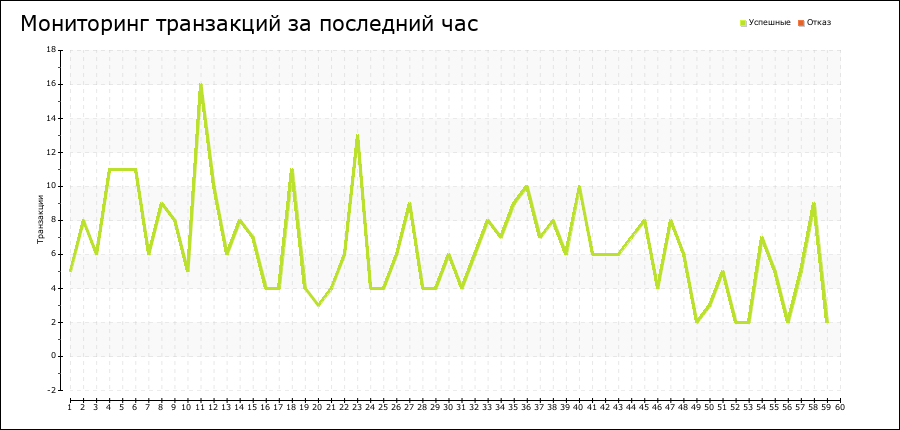
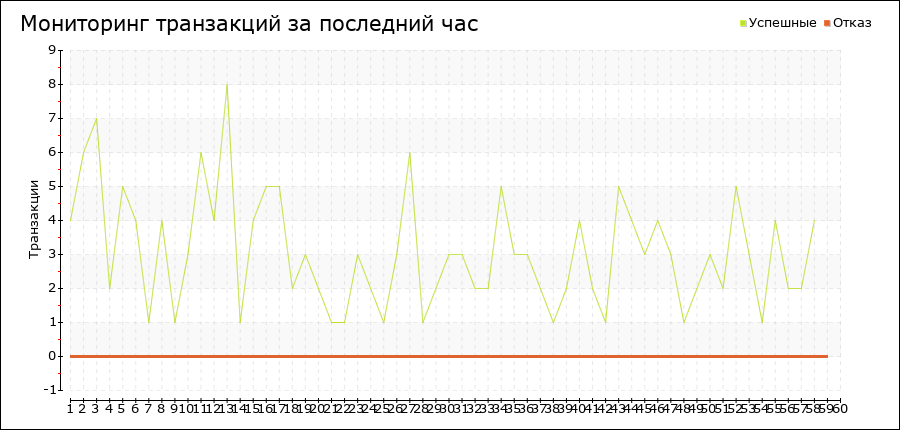
16.01.2018

diff --git a/tr_in_minute.php b/tr_in_minute.php
@@ -1,0 +1,74 @@
+<?php
+// Standard inclusions     
+//include("Pchart/class/pData.class.php");
+//include("Pchart/class/pDraw.class.php");
+//include("Pchart/class/pPie.class.php");
+//include("Pchart/class/pImage.class.php");
+
+
+include ('inc/data_tr_in_minute.php');
+  
+/* Create and populate the pData object */
+ $MyData = new pData();   
+ $MyData->addPoints(array(count($arraypaidtimem), count($arraycanceltimem)),"ScoreA");  
+ $MyData->setSerieDescription("ScoreA","Application A");
+ 
+
+ /* Define the absissa serie */
+ $MyData->addPoints(array("Успешные","Отказ"),"Labels");
+ $MyData->setAbscissa("Labels");
+
+ /* Create the pChart object */
+ $myPicture = new pImage(900,430,$MyData);
+
+ /* Draw a solid background */
+ //$Settings = array("R"=>173, "G"=>152, "B"=>217, "Dash"=>1, "DashR"=>193, "DashG"=>172, "DashB"=>237);
+ //$myPicture->drawFilledRectangle(0,0,900,430,$Settings);
+
+ /* Draw a gradient overlay */
+ //$Settings = array("StartR"=>209, "StartG"=>150, "StartB"=>231, "EndR"=>111, "EndG"=>3, "EndB"=>138, "Alpha"=>50);
+ //$myPicture->drawGradientArea(0,0,900,430,DIRECTION_VERTICAL,$Settings);
+ //$myPicture->drawGradientArea(0,0,900,20,DIRECTION_VERTICAL,array("StartR"=>0,"StartG"=>0,"StartB"=>0,"EndR"=>50,"EndG"=>50,"EndB"=>50,"Alpha"=>100));
+
+ /* Add a border to the picture */
+ $myPicture->drawRectangle(0,0,899,429,array("R"=>0,"G"=>0,"B"=>0));
+
+ /* Write the picture title */ 
+ $myPicture->setFontProperties(array("FontName"=>"PChart/fonts/verdana.ttf","FontSize"=>16));
+ $myPicture->drawText(10,28,"Транзакции за минуту",array("R"=>0,"G"=>0,"B"=>0));
+
+ /* Set the default font properties */ 
+ $myPicture->setFontProperties(array("FontName"=>"PChart/fonts/verdana.ttf","FontSize"=>10,"R"=>0,"G"=>0,"B"=>0));
+
+ /* Enable shadow computing */ 
+ $myPicture->setShadow(TRUE,array("X"=>2,"Y"=>2,"R"=>0,"G"=>0,"B"=>0,"Alpha"=>50));
+
+ /* Create the pPie object */ 
+ $PieChart = new pPie($myPicture,$MyData);
+
+ /* Draw a simple pie chart */ 
+ //$PieChart->draw2DPie(185,205,array("WriteValues"=>PIE_VALUE_NATURAL, "SecondPass"=>FALSE, "Radius"=>170));
+ $PieChart->draw2DPie(185,205,array("WriteValues"=>PIE_VALUE_NATURAL,"DataGapAngle"=>10,"DataGapRadius"=>6,"Border"=>TRUE,"BorderR"=>255,"BorderG"=>255,"BorderB"=>255, "Radius"=>170, "LabelColor"=>PIE_LABEL_COLOR_MANUAL, "ValueR"=>0, "ValueG"=>0, "ValueB"=>0));
+ /* Draw an AA pie chart */ 
+ //$PieChart->draw2DPie(340,125,array("DrawLabels"=>TRUE,"LabelStacked"=>TRUE,"Border"=>TRUE));
+
+ /* Draw a splitted pie chart */ 
+ $PieChart->draw2DPie(625,205,array("WriteValues"=>PIE_VALUE_PERCENTAGE,"DataGapAngle"=>10,"DataGapRadius"=>2,"Border"=>TRUE,"BorderR"=>255,"BorderG"=>255,"BorderB"=>255, "Radius"=>170, "LabelColor"=>PIE_LABEL_COLOR_MANUAL, "ValueR"=>0, "ValueG"=>0, "ValueB"=>0));
+
+ /* Write the legend */
+ $myPicture->setFontProperties(array("FontName"=>"PChart/fonts/verdana.ttf","FontSize"=>10));
+ $myPicture->setShadow(TRUE,array("X"=>1,"Y"=>1,"R"=>0,"G"=>0,"B"=>0,"Alpha"=>20));
+ $myPicture->drawText(185,405,"Количество транзакций",array("DrawBox"=>TRUE,"BoxRounded"=>TRUE,"R"=>0,"G"=>0,"B"=>0,"Align"=>TEXT_ALIGN_TOPMIDDLE));
+ $myPicture->drawText(625,405,"Количество транзакций в процентах",array("DrawBox"=>TRUE,"BoxRounded"=>TRUE,"R"=>0,"G"=>0,"B"=>0,"Align"=>TEXT_ALIGN_TOPMIDDLE));
+
+ /* Write the legend box */ 
+ $myPicture->setFontProperties(array("FontName"=>"PChart/fonts/verdana.ttf","FontSize"=>10,"R"=>0,"G"=>0,"B"=>0));
+ $PieChart->drawPieLegend(740,20,array("Style"=>LEGEND_NOBORDER,"Mode"=>LEGEND_HORIZONTAL));
+  
+ $myPicture->Render("pic/tr_in_minute.png");
+/* 
+ * To change this license header, choose License Headers in Project Properties.
+ * To change this template file, choose Tools | Templates
+ * and open the template in the editor.
+ */
+

diff --git a/inc/data_tr_per_hour.php b/inc/data_tr_per_hour.php
@@ -12,36 +12,61 @@ if (!$db) {
 $et = time();
 $st = time() - 3600;
 
-$sql = "SELECT * FROM transactions WHERE status = 'paid' AND time_add > '$st'";
+$sql = "SELECT * FROM transactions WHERE time_add > '$st'";
 $result = mysqli_query($db,$sql);
 while ($row = mysqli_fetch_assoc($result)){
-    
+    $arraystatus[] = $row['status'];
     $arraypaidtime[] = $row['time_add'];
 }
 
-$sql = "SELECT * FROM transactions WHERE status = 'cansel' AND time_add > '$st'";
+/*$sql = "SELECT * FROM transactions WHERE status = 'cancel' AND time_add > '$st'";
 $result = mysqli_query($db,$sql);
 while ($row = mysqli_fetch_assoc($result)){
     
-    if (!$row['time_add']){
-        $arraycanceltime[] = 0;
-    } else {
-        $arraycanceltime[] = $row['time_add'];
-    }
+    $arraycanceltime[] = $row['time_add'];
+    
+}*/
+for ($x=0; $x<59; $x++){
+$massivcancel[$x] = 0;
 }
 
 for ($i=0; $i<count($arraypaidtime); $i++){
+    $temp = (int)(($arraypaidtime[$i]-$arraypaidtime[0])/60);
+    if (($arraystatus[$i] == 'paid') or ($arraystatus[$i] == 'new')){
+        $massivpaid[$temp]++;
+    } else {
+        $massivcancel[$temp]++;
+    }
+}
+
+/*for ($i=0; $i<count($arraypaidtime); $i++){
     $temp = (int)(($arraypaidtime[$i]-$arraypaidtime[0])/60);   
     $massivpaid[$temp]++;   
     //echo $arraypaidtime[$i]."\n\r";
-}
+    if ($araaycanceltime[$i] == 0){
+        $massivcancel[$temp] = 0;
+    } else {
+        $massivecancel[$temp]++;
+    }
+}*/
 // echo "----------------------------------------------";
 
-for ($i=0; $i<count($arraycanceltime); $i++){
-    $temp = (int)(($arraycanceltime[$i]-$arraycanceltime[0])/60);   
-    $massivcancel[$temp]++;   
+//if (count($arraycanceltime) == 0){
+  //  for ($i=0; $i<59; $i++){
+//        $massivcancel[$i] = 0;
+ //   }
+//}
+//for ($i=0; $i<count($arraycanceltime); $i++){
+    
+    
+  //  $tempb = (int)(($arraycanceltime[$i]-$arraycanceltime[0])/60);   
+ //   if ($arraycanceltime[$i]){
+ //       $massivcancel[$tempb] = 0 ;
+ //  } else {
+ //       $massivcancel[$tempb]++;
+  //  }   
     //echo $arraycanceltime[$i]."\n\r";
-}
+//}
 
 //$countgood = mysqli_num_rows($result);
 mysqli_close($db);

diff --git a/inc/data_tr_in_minute.php b/inc/data_tr_in_minute.php
@@ -1,0 +1,50 @@
+<?php
+require_once 'inc/db.php';
+
+//Подключаемся к БД
+$db = mysqli_connect($host, $user, $password, $database);
+
+if (!$db) {
+        printf("Невозможно подключиться к базе данных. Код ошибки: %s\n", mysqli_connect_error());
+        exit;
+    }
+
+$st1 = time() - 60;
+
+$sql1 = "SELECT * FROM transactions WHERE status = 'paid' AND time_add > '$st1'";
+$result1 = mysqli_query($db,$sql1);
+while ($row1 = mysqli_fetch_assoc($result1)){
+    
+    $arraypaidtimem[] = $row1['time_add'];
+}
+
+$sql1 = "SELECT * FROM transactions WHERE status = 'cancel' AND time_add > '$st1'";
+$result1 = mysqli_query($db,$sql1);
+while ($row1 = mysqli_fetch_assoc($result1)){
+    
+    
+    $arraycanceltimem[] = $row1['time_add'];
+    
+}
+
+if (count($arraypaidtimem) < 2){
+    $to = "121@aorb.ru";
+    $subject = "!!!PaymentGate!!! Внимание, низкая активность!";
+    $message = "Внимание! На Платежном Шлюзе зарегистрирована низкая активность! Возможны технические проблемы!";
+    $headers = "From: PaymentGate <admininfo@aorb.ru>\r\nContent-type: text/plain; charset=utf-8 \r\n";
+    mail ($to, $subject, $message, $headers);
+    
+    
+    
+    
+    //mail("121@aorb.ru", "!!!PaymentGate!!! Внимание, низкая активность!", "Внимание! На Платежном Шлюзе зарегистрирована низкая активность! Возможны технические проблемы!");
+}
+
+//$countgood = mysqli_num_rows($result);
+mysqli_close($db);
+/* 
+ * To change this license header, choose License Headers in Project Properties.
+ * To change this template file, choose Tools | Templates
+ * and open the template in the editor.
+ */
+

diff --git a/tr_per_hour.php b/tr_per_hour.php
@@ -6,6 +6,7 @@ include("Pchart/class/pPie.class.php");
 include("Pchart/class/pImage.class.php");
 include 'inc/data_tr_per_hour.php';
 //echo $count;
+
 for ($iii=1; $iii<=60; $iii++){
     $minut[$iii] = $iii;
 }
@@ -17,7 +18,8 @@ for ($iii=1; $iii<=60; $iii++){
  $MyData->addPoints($massivcancel,"Отказ");
  //$MyData->addPoints(array(2,7,5,18,19,22),"Probe 3");
  //$MyData->setSerieTicks("Успешные",8);
- $MyData->setSerieWeight("Успешные",1);
+ $MyData->setSerieWeight("Успешные",0);
+ $MyData->setSerieWeight("Отказ",1);
  $MyData->setAxisName(0,"Транзакции");
  $MyData->addPoints($minut,"Labels");
  $MyData->setSerieDescription("Labels","Months");
@@ -38,7 +40,7 @@ for ($iii=1; $iii<=60; $iii++){
  $myPicture->drawText(250,35,"Мониторинг транзакций за последний час",array("FontSize"=>16,"Align"=>TEXT_ALIGN_BOTTOMMIDDLE));
 
  /* Set the default font */
- $myPicture->setFontProperties(array("FontName"=>"Pchart/fonts/verdana.ttf","FontSize"=>6));
+ $myPicture->setFontProperties(array("FontName"=>"Pchart/fonts/verdana.ttf","FontSize"=>10));
 
  /* Define the chart area */
  $myPicture->setGraphArea(60,40,850,400);

diff --git a/index.php b/index.php
@@ -1,15 +1,19 @@
 <meta http-equiv="Refresh" content="60" />
-<a>12343545534652562</a>
+<H1 align = "center">Мониторинг Платежного Шлюза</H1>
 <?php
 //header('refresh: 60');
 
 include 'tr_per_hour.php';
+include 'tr_in_minute.php';
 
-
+//print_r($massivcancel);
+//print_r($massivcancel);
+//echo "1".$tempb;
 ?>
 
-<table>
+<table align = "center">
     <tr>
+        <td><img src="pic/tr_in_minute.png"></td></tr><tr>
         <td><img src="pic/tr_per_hour.png"></td>
     </tr>
 </table>

diff --git a/test.php b/test.php
@@ -1,9 +1,7 @@
 <?php
-echo time();
 
-$starttime = time() - 60;
 
-echo $starttime;
+
 /* 
  * To change this license header, choose License Headers in Project Properties.
  * To change this template file, choose Tools | Templates
